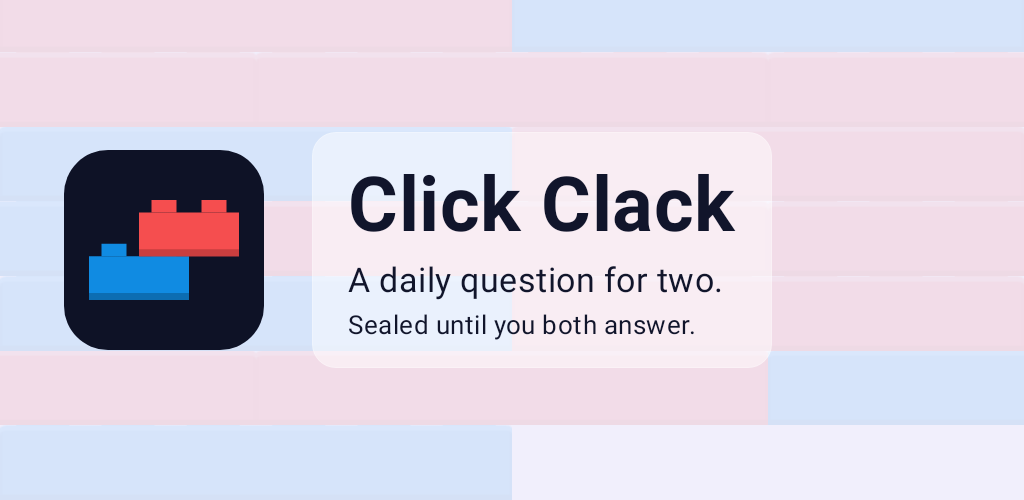
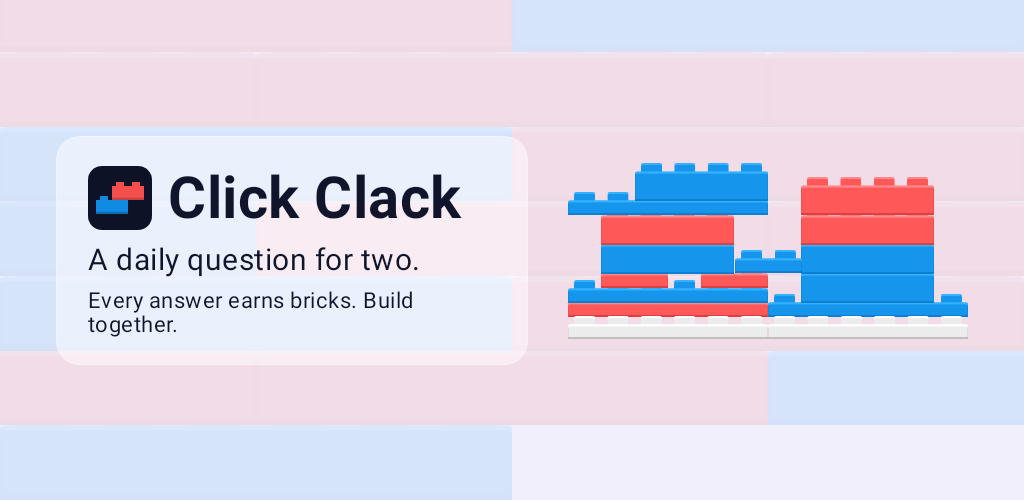
Feature graphic shows a finished brick sculpture

Changed region(s): [[0.0625, 0.3, 0.9688, 0.72]]

diff --git a/app/src/test/java/com/ampersand/ui/StoreAssets.kt b/app/src/test/java/com/ampersand/ui/StoreAssets.kt
@@ -235,16 +235,29 @@ class StoreAssets {
     @Config(qualifiers = "w1024dp-h500dp-mdpi")
     @Test fun featureGraphic() = captureRoboImage("$out/feature-graphic.png") {
         Wall {
-            Row(Modifier.fillMaxSize().padding(horizontal = 64.dp), verticalAlignment = Alignment.CenterVertically) {
-                Mark(200.dp)
-                Spacer(Modifier.width(48.dp))
+            // Words on the left, a finished week's sculpture on its base on the right.
+            Row(Modifier.fillMaxSize().padding(horizontal = 56.dp), verticalAlignment = Alignment.CenterVertically) {
                 Column(
-                    Modifier.glass(inkOnBrick(structureSlug()), corner = 24.dp, strength = 1.4f).padding(horizontal = 36.dp, vertical = 28.dp),
+                    Modifier.weight(1f).glass(inkOnBrick(structureSlug()), corner = 24.dp, strength = 1.4f).padding(horizontal = 32.dp, vertical = 28.dp),
                     verticalArrangement = Arrangement.spacedBy(10.dp),
                 ) {
-                    Text("Click Clack", fontSize = 76.sp, fontWeight = FontWeight.Bold, color = MaterialTheme.colorScheme.onBackground)
-                    Text("A daily question for two.", fontSize = 34.sp, color = MaterialTheme.colorScheme.onBackground)
-                    Text("Sealed until you both answer.", fontSize = 26.sp, color = MaterialTheme.colorScheme.onBackground)
+                    Row(verticalAlignment = Alignment.CenterVertically) {
+                        Mark(64.dp)
+                        Spacer(Modifier.width(16.dp))
+                        Text("Click Clack", fontSize = 58.sp, fontWeight = FontWeight.Bold, color = MaterialTheme.colorScheme.onBackground)
+                    }
+                    Text("A daily question for two.", fontSize = 30.sp, color = MaterialTheme.colorScheme.onBackground)
+                    Text("Every answer earns bricks. Build together.", fontSize = 22.sp, color = MaterialTheme.colorScheme.onBackground)
+                }
+                Spacer(Modifier.width(40.dp))
+                Column(Modifier.width(400.dp), horizontalAlignment = Alignment.CenterHorizontally) {
+                    com.ampersand.ui.brick.Sculpture(state.shelf.first(), Modifier.fillMaxWidth())
+                    com.ampersand.ui.brick.BrickSlab(
+                        slugs = listOf(null),
+                        modifier = Modifier.fillMaxWidth().height(20.dp),
+                        studs = 12,
+                        height = com.ampersand.model.BrickHeight.LOW,
+                    )
                 }
             }
         }
